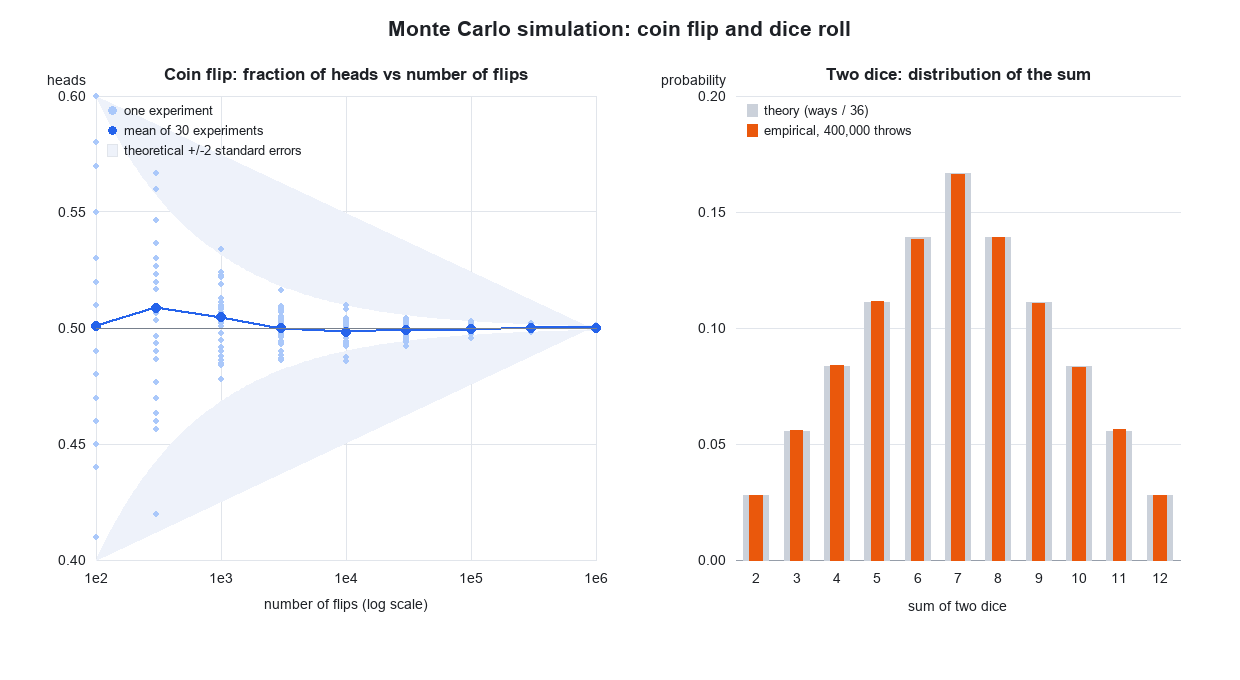
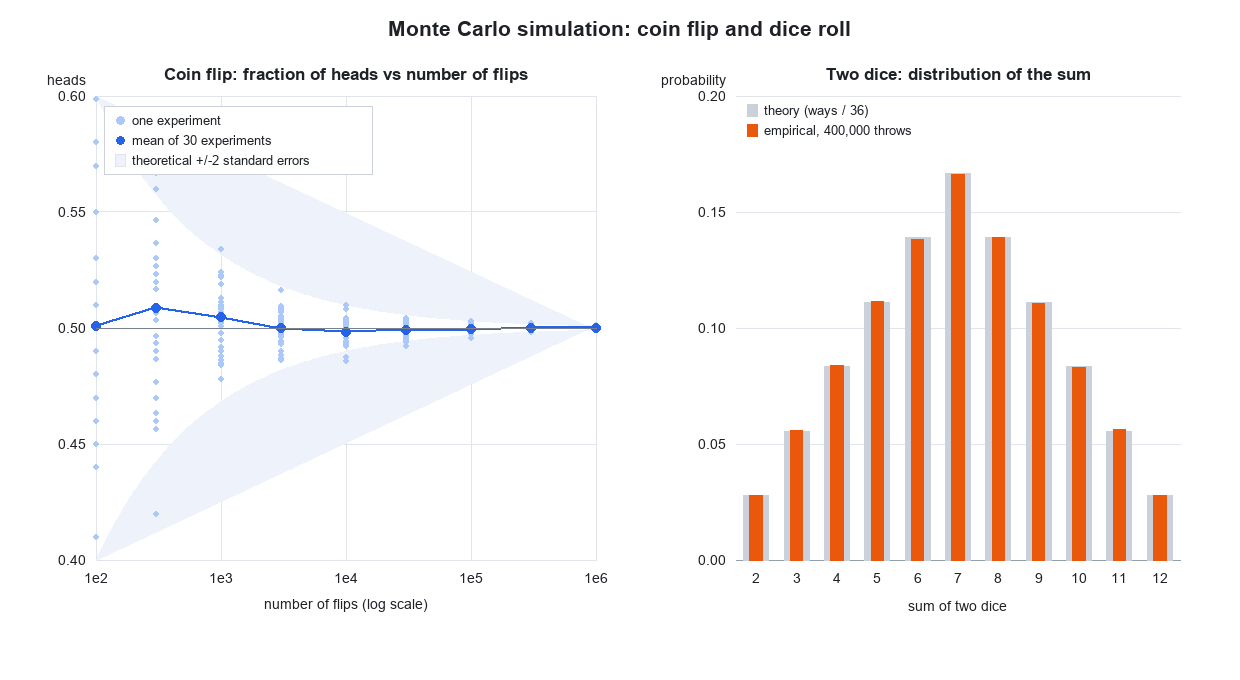
Polish chart legend and clean up dead code

Changed region(s): [[0.0919, 0.1544, 0.2452, 0.2471]]

diff --git a/monte_carlo.py b/monte_carlo.py
@@ -2,12 +2,14 @@
 """
 Monte Carlo simulations: coin flip and dice roll.
 
-Sections
+Sections printed to the console
   1. Coin flip: law of large numbers
   2. One die: frequencies + chi-square goodness-of-fit test
   3. Two dice: distribution of the sum (empirical vs theory)
-  4. Expected value: convergence, and a "casino game" ruin demo
-  5. Chart (PNG) drawn with Pillow
+  4. Expected value: convergence of the running mean
+  5. A game with negative expected value, and a ruin demo
+
+Then a chart (PNG) is drawn with Pillow.
 
 Run:  python monte_carlo.py
 """
@@ -195,8 +197,7 @@ def make_chart(path: str, ns, reps_fracs, faces, emp, theory, n_throws: int) -> 
     for e in range(2, 7):
         xx = X(10 ** e)
         d.line([xx, y0, xx, y1], fill=GRID)
-        d.text((xx, y1 + 18), f"$10^{e}$" if False else f"1e{e}", font=f_axis,
-               fill=FG, anchor="mm")
+        d.text((xx, y1 + 18), f"1e{e}", font=f_axis, fill=FG, anchor="mm")
     d.text(((x0 + x1) / 2, y1 + 44), "number of flips (log scale)",
            font=f_axis, fill=FG, anchor="mm")
     d.text((x0 - 10, y0 - 16), "heads", font=f_axis, fill=FG, anchor="rm")
@@ -208,11 +209,11 @@ def make_chart(path: str, ns, reps_fracs, faces, emp, theory, n_throws: int) -> 
     d.polygon(list(zip([X(n) for n in band_n], upper)) + list(zip([X(n) for n in band_n], lower)),
               fill=(238, 242, 250))
 
-    # dots of individual experiments
+    # dots of individual experiments (clamped, so nothing is drawn outside the axes)
     for i, n in enumerate(ns):
         xx = X(n)
-        for f in reps_fracs[:, i]:
-            yy = Y(f)
+        for frac in reps_fracs[:, i]:
+            yy = min(max(Y(frac), y0 + 3), y1 - 3)
             d.ellipse([xx - 2.5, yy - 2.5, xx + 2.5, yy + 2.5], fill=LBLUE)
     # mean of the runs
     pts = [(X(n), Y(reps_fracs[:, i].mean())) for i, n in enumerate(ns)]
@@ -221,15 +222,22 @@ def make_chart(path: str, ns, reps_fracs, faces, emp, theory, n_throws: int) -> 
         d.ellipse([px - 4.5, py - 4.5, px + 4.5, py + 4.5], fill=BLUE)
     d.line([x0, Y(0.5), x1, Y(0.5)], fill=(120, 128, 140), width=1)
 
-    ly = y0 + 14
-    d.ellipse([x0 + 12, ly - 4, x0 + 20, ly + 4], fill=LBLUE)
-    d.text((x0 + 28, ly), "one experiment", font=f_small, fill=FG, anchor="lm")
-    ly += 20
-    d.ellipse([x0 + 12, ly - 4, x0 + 20, ly + 4], fill=BLUE)
-    d.text((x0 + 28, ly), "mean of 30 experiments", font=f_small, fill=FG, anchor="lm")
-    ly += 20
-    d.rectangle([x0 + 11, ly - 6, x0 + 21, ly + 6], fill=(238, 242, 250), outline=GRID)
-    d.text((x0 + 28, ly), "theoretical +/-2 standard errors", font=f_small, fill=FG, anchor="lm")
+    # legend on a white panel, otherwise the +/-2 SE band shows through the text
+    legend = [
+        ("dot", LBLUE, "one experiment"),
+        ("dot", BLUE, "mean of 30 experiments"),
+        ("box", (238, 242, 250), "theoretical +/-2 standard errors"),
+    ]
+    lx, ly0, lh = x0 + 8, y0 + 10, 20
+    d.rectangle([lx, ly0, lx + 268, ly0 + lh * len(legend) + 8],
+                fill=(255, 255, 255), outline=(205, 210, 218))
+    for k, (kind, colour, label) in enumerate(legend):
+        cy = ly0 + 4 + lh * k + lh // 2
+        if kind == "dot":
+            d.ellipse([lx + 12, cy - 4, lx + 20, cy + 4], fill=colour)
+        else:
+            d.rectangle([lx + 11, cy - 6, lx + 21, cy + 6], fill=colour, outline=GRID)
+        d.text((lx + 28, cy), label, font=f_small, fill=FG, anchor="lm")
 
     # ---------------- right panel: two dice ----------------
     rx0, ry0, rx1, ry1 = 736, 96, 1180, 560
